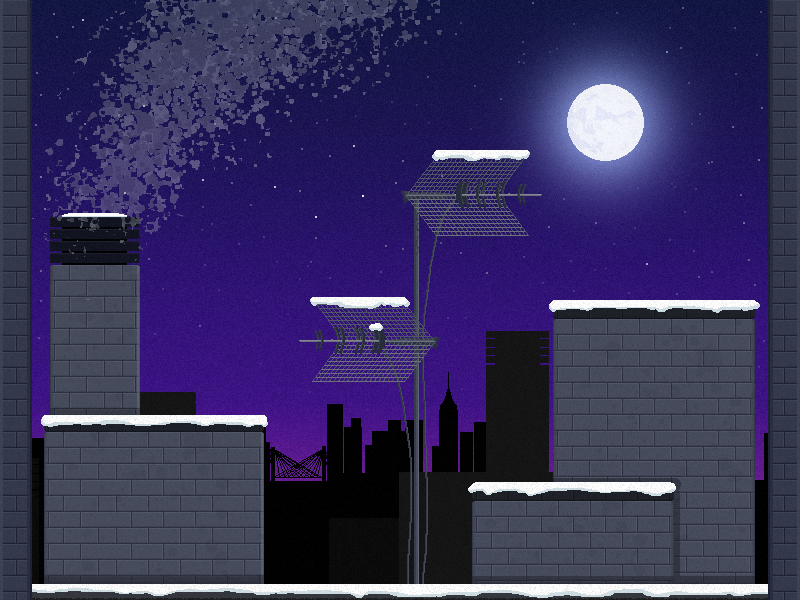
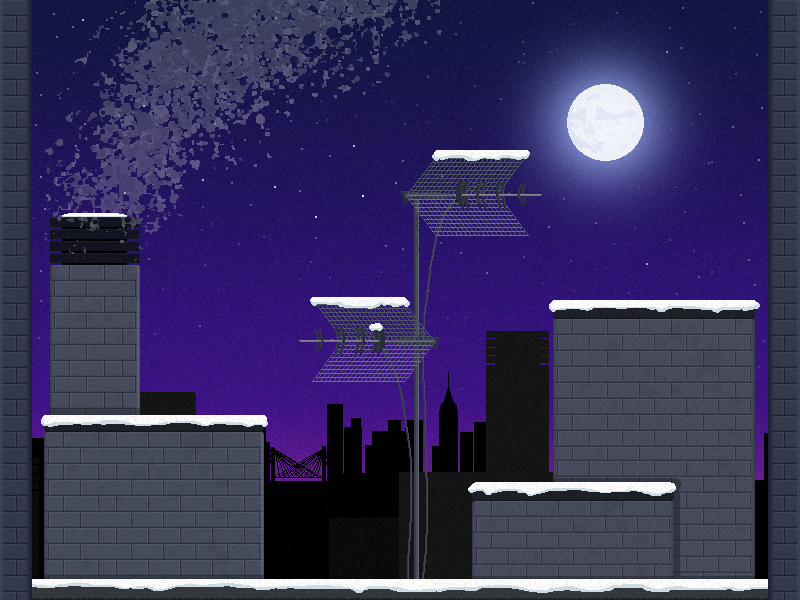
beta testing

Changed region(s): [[0.0312, 0.96, 0.9688, 1.0]]

diff --git a/F_3_GRUPO_G/4CatsAPI_REST/src/main/resources/static/Scene3.js b/F_3_GRUPO_G/4CatsAPI_REST/src/main/resources/static/Scene3.js
@@ -8,18 +8,17 @@ class Scene3 extends Phaser.Scene{
     {
         this.load.image('escenario1', '/Recursos/Interfaz/escenario1.jpg');
         this.load.image('escenario2', '/Recursos/Interfaz/escenario2.png');
-        this.load.image('escenario3', '/Recursos/Interfaz/escenario2.png');
+        this.load.image('escenario3', '/Recursos/Interfaz/escenario3.png');
         this.load.image('plataforma', '/Recursos/Plataformas/plataforma.png');
         this.load.image('pescado', '/Recursos/Objetos/pescado.png');
         this.load.image('ovillo', '/Recursos/Objetos/ovillo.png');
         this.load.image('rata', '/Recursos/Objetos/rata.png');
-        pU=this.load.image('lata', '/Recursos/Objetos/lata.png');
+        this.load.image('lata', '/Recursos/Objetos/lata.png');
         this.load.audio('juego',['/Recursos/Musica/juego.mp3', '/Recursos/Musica/juego.ogg']);
         this.load.audio('aplastado',['/Recursos/Sonidos/aplastado.mp3', '/Recursos/Sonidos/aplastado.ogg']);
         this.load.audio('objeto',['/Recursos/Sonidos/objeto.mp3', '/Recursos/Sonidos/objeto.ogg']);
         this.load.audio('powerUp',['/Recursos/Sonidos/powerUp.mp3', '/Recursos/Sonidos/powerUp.ogg']);
         this.load.audio('cuentaAtras',['/Recursos/Sonidos/cuentaAtras.mp3', '/Recursos/Sonidos/cuentaAtras.ogg']);
-        this.load.video('nieve','/Recursos/Interfaz/nieve.mp4');
         
         this.load.spritesheet('Muffin', '/Recursos/Personajes/Muffin.png',
         { frameWidth: 64, frameHeight: 54 } 
@@ -104,9 +103,9 @@ class Scene3 extends Phaser.Scene{
         //cuando le damos cambiamos a la escena de pausa, paramos la música y esta escena
         botonPausa.on('pointerdown', () => { this.scene.pause(); musica.pause(); this.scene.launch("Pausa"); sonidoCuentaAtras.pause();}); 
         botonPausa.on('pointerout', () => {
-        	if(escenarioTres)  
+        	if(escenarioTres) //en el escenario 3 la letra del pausa en estado normal es roja
         		this.add.text(40,15,"Pausa",{font:"30px Agency FB bold", fill:"#CC0033"}); 
-        	else 
+        	else //en los escenarios 1 y 2 la letra del pausa en estado normal es amarilla
         		this.add.text(40,15,"Pausa",{font:"30px Agency FB bold", fill:"#FFFF33"}); 
         });
         botonPausa.on('pointerover', () => {this.add.text(40,15,"Pausa",{font:"30px Agency FB bold", fill:"#FF0066"});}); 
@@ -120,9 +119,6 @@ class Scene3 extends Phaser.Scene{
 
         //Creación del personaje
         player = this.physics.add.sprite(734, 560, 'Muffin'); //creación de un sprite con físicas
-        
-        
-        
         this.physics.add.collider(player, plataformas);// añadimos las fisicas al choque
         //player.body.checkCollision.up=false; practica 2
         player2 = this.physics.add.sprite(100, 560, 'Mungojerry'); //creación de un sprite con físicas
@@ -217,7 +213,7 @@ class Scene3 extends Phaser.Scene{
             key: 'VOplayer', //nombre de la animación
             frames: this.anims.generateFrameNumbers('Muffin', { start: 32, end: 55 }),
             frameRate: 20,
-            repeat: 1 //volver a empezar cuando termine
+            repeat: 1 
         });
 
         //PLAYER 2 animaciones-------------------------------------------------------------------------------------
@@ -301,7 +297,7 @@ class Scene3 extends Phaser.Scene{
             key: 'VOplayer2', //nombre de la animación
             frames: this.anims.generateFrameNumbers('Mungojerry', { start: 88, end: 111 }),
             frameRate: 20,
-            repeat: 1 //volver a empezar cuando termine
+            repeat: 1 
         });
         //NIEVE
         this.anims.create({
@@ -313,9 +309,11 @@ class Scene3 extends Phaser.Scene{
         //FIN ANIMACIONES--------------------------------------------------------------------
 
         objeto= this.physics.add.staticGroup(); //objeto por el que lucharán
-        objetoPowerUp= this.physics.add.staticGroup(); //power up
-
+        objetoPowerUp1= this.physics.add.staticGroup(); //power up
+        objetoPowerUp2= this.physics.add.staticGroup();
+        
         //Generamos el objeto en el centro de la pantalla
+        //dependiendo del escenario elegido el objeto principal tiene una posición asignada 
         if(escenarioUno)
         	objeto.create(340, 175, objetoAleatorio);
         else if(escenarioDos)
@@ -334,14 +332,14 @@ class Scene3 extends Phaser.Scene{
         player2.right=this.input.keyboard.addKey(Phaser.Input.Keyboard.KeyCodes.D);
         player2.left=this.input.keyboard.addKey(Phaser.Input.Keyboard.KeyCodes.A);
         player2.up=this.input.keyboard.addKey(Phaser.Input.Keyboard.KeyCodes.W);
+        
         //llamamos a la funcion hitplayer cada vez que player2 salte sobre player uno y a la inversa
         this.physics.add.overlap(player, player2, this.hitPlayer, null, this);
         this.physics.add.overlap(player2, player, this.hitPlayer, null, this);
         
-        if(escenarioDos){
+        if(escenarioDos){//si el  escenario seleccionado ha sido el dos, se activa la animación de la nieve
         	nieve.anims.play("nieve",true);
         }
-        
         
         timer = this.time.addEvent({ delay: 45000, callback: this.gameOver, callbackScope: this });
 
@@ -371,7 +369,7 @@ class Scene3 extends Phaser.Scene{
         generarPowerUp2 = Phaser.Math.Between(20, 5);
         colisionPowerUp=false;
         colisionPowerUp2=false;
-        pU.x+=50;
+        
         escenarioUno=false;
         escenarioDos=false;
         escenarioTres=false;
@@ -428,7 +426,7 @@ class Scene3 extends Phaser.Scene{
             cuentaAtrasParadoP2 = true;
             P1P2 = true;
             cuentaAtrasParadoP1 = false;
-           P2P1 = false;
+            P2P1 = false;
         }
 
 
@@ -463,7 +461,7 @@ class Scene3 extends Phaser.Scene{
     }
     //A continuación comienza la función update que se ejecuta en bucle
     update (time, delta) {
-    	
+    		
     		PUTservidor(jugador);
             //tiempoEspera++;//la variable que controla hace cuánto ha sido transferido el objeto aumenta 
             time*=delta;//para que el tiempo no dependa de la máquina que compila este código
@@ -476,32 +474,34 @@ class Scene3 extends Phaser.Scene{
             //Cuando el tiempo que queda es igual al random en el que aparece el power up 2
             if (tiempo===generarPowerUp1) {
                 generarPowerUp1=130;
+                //dependiendo del escenario elegido el primer power up tiene una posición asignada
                 if(escenarioUno)
-                	pU=objetoPowerUp.create(640,170, "lata");
+                	objetoPowerUp1.create(640,170, "lata");
                 else if(escenarioDos)
-                	pU=objetoPowerUp.create(155,405, "lata");
+                	objetoPowerUp1.create(155,405, "lata");
                 else if(escenarioTres)
-                	pU=objetoPowerUp.create(609,225, "lata");
+                	objetoPowerUp1.create(609,225, "lata");
                 
-                this.physics.add.overlap(player, objetoPowerUp, this.colectPowerUp1, null, this);
-                this.physics.add.overlap(player2, objetoPowerUp, this.colectPowerUp2, null, this);
+                this.physics.add.overlap(player, objetoPowerUp1, this.colectPowerUp1, null, this);
+                this.physics.add.overlap(player2, objetoPowerUp1, this.colectPowerUp2, null, this);
             }
             //si tiempo es igual al momento que hemos elegido para destruir el primer power up, lo movemos fuera de la pantalla
             if(tiempo<destruir){
-                objetoPowerUp.destroy();
+                objetoPowerUp1.clear(true);
             }
             //Cuando el tiempo que queda es igual al random en el que aparece el power up 2
             if (tiempo === generarPowerUp2) {
                 generarPowerUp2 = 130;
+              //dependiendo del escenario elegido el segundo power up tiene una posición asignada
                 if(escenarioUno)
-                	objetoPowerUp.create(339, 350, "lata");
+                	objetoPowerUp2.create(339, 350, "lata");
                 else if(escenarioDos)
-                	objetoPowerUp.create(650, 295, "lata");
+                	objetoPowerUp2.create(650, 295, "lata");
                 else if(escenarioTres)
-                	objetoPowerUp.create(280, 330, "lata");
+                	objetoPowerUp2.create(280, 330, "lata");
                 
-                this.physics.add.overlap(player, objetoPowerUp, this.colectPowerUp1, null, this);
-                this.physics.add.overlap(player2, objetoPowerUp, this.colectPowerUp2, null, this);
+                this.physics.add.overlap(player, objetoPowerUp2, this.colectPowerUp1, null, this);
+                this.physics.add.overlap(player2, objetoPowerUp2, this.colectPowerUp2, null, this);
             }
 
             //para mostrar el temporizador

diff --git a/F_3_GRUPO_G/4CatsAPI_REST/target/classes/static/Scene3.js b/F_3_GRUPO_G/4CatsAPI_REST/target/classes/static/Scene3.js
@@ -8,18 +8,17 @@ class Scene3 extends Phaser.Scene{
     {
         this.load.image('escenario1', '/Recursos/Interfaz/escenario1.jpg');
         this.load.image('escenario2', '/Recursos/Interfaz/escenario2.png');
-        this.load.image('escenario3', '/Recursos/Interfaz/escenario2.png');
+        this.load.image('escenario3', '/Recursos/Interfaz/escenario3.png');
         this.load.image('plataforma', '/Recursos/Plataformas/plataforma.png');
         this.load.image('pescado', '/Recursos/Objetos/pescado.png');
         this.load.image('ovillo', '/Recursos/Objetos/ovillo.png');
         this.load.image('rata', '/Recursos/Objetos/rata.png');
-        pU=this.load.image('lata', '/Recursos/Objetos/lata.png');
+        this.load.image('lata', '/Recursos/Objetos/lata.png');
         this.load.audio('juego',['/Recursos/Musica/juego.mp3', '/Recursos/Musica/juego.ogg']);
         this.load.audio('aplastado',['/Recursos/Sonidos/aplastado.mp3', '/Recursos/Sonidos/aplastado.ogg']);
         this.load.audio('objeto',['/Recursos/Sonidos/objeto.mp3', '/Recursos/Sonidos/objeto.ogg']);
         this.load.audio('powerUp',['/Recursos/Sonidos/powerUp.mp3', '/Recursos/Sonidos/powerUp.ogg']);
         this.load.audio('cuentaAtras',['/Recursos/Sonidos/cuentaAtras.mp3', '/Recursos/Sonidos/cuentaAtras.ogg']);
-        this.load.video('nieve','/Recursos/Interfaz/nieve.mp4');
         
         this.load.spritesheet('Muffin', '/Recursos/Personajes/Muffin.png',
         { frameWidth: 64, frameHeight: 54 } 
@@ -104,9 +103,9 @@ class Scene3 extends Phaser.Scene{
         //cuando le damos cambiamos a la escena de pausa, paramos la música y esta escena
         botonPausa.on('pointerdown', () => { this.scene.pause(); musica.pause(); this.scene.launch("Pausa"); sonidoCuentaAtras.pause();}); 
         botonPausa.on('pointerout', () => {
-        	if(escenarioTres)  
+        	if(escenarioTres) //en el escenario 3 la letra del pausa en estado normal es roja
         		this.add.text(40,15,"Pausa",{font:"30px Agency FB bold", fill:"#CC0033"}); 
-        	else 
+        	else //en los escenarios 1 y 2 la letra del pausa en estado normal es amarilla
         		this.add.text(40,15,"Pausa",{font:"30px Agency FB bold", fill:"#FFFF33"}); 
         });
         botonPausa.on('pointerover', () => {this.add.text(40,15,"Pausa",{font:"30px Agency FB bold", fill:"#FF0066"});}); 
@@ -120,9 +119,6 @@ class Scene3 extends Phaser.Scene{
 
         //Creación del personaje
         player = this.physics.add.sprite(734, 560, 'Muffin'); //creación de un sprite con físicas
-        
-        
-        
         this.physics.add.collider(player, plataformas);// añadimos las fisicas al choque
         //player.body.checkCollision.up=false; practica 2
         player2 = this.physics.add.sprite(100, 560, 'Mungojerry'); //creación de un sprite con físicas
@@ -217,7 +213,7 @@ class Scene3 extends Phaser.Scene{
             key: 'VOplayer', //nombre de la animación
             frames: this.anims.generateFrameNumbers('Muffin', { start: 32, end: 55 }),
             frameRate: 20,
-            repeat: 1 //volver a empezar cuando termine
+            repeat: 1 
         });
 
         //PLAYER 2 animaciones-------------------------------------------------------------------------------------
@@ -301,7 +297,7 @@ class Scene3 extends Phaser.Scene{
             key: 'VOplayer2', //nombre de la animación
             frames: this.anims.generateFrameNumbers('Mungojerry', { start: 88, end: 111 }),
             frameRate: 20,
-            repeat: 1 //volver a empezar cuando termine
+            repeat: 1 
         });
         //NIEVE
         this.anims.create({
@@ -313,9 +309,11 @@ class Scene3 extends Phaser.Scene{
         //FIN ANIMACIONES--------------------------------------------------------------------
 
         objeto= this.physics.add.staticGroup(); //objeto por el que lucharán
-        objetoPowerUp= this.physics.add.staticGroup(); //power up
-
+        objetoPowerUp1= this.physics.add.staticGroup(); //power up
+        objetoPowerUp2= this.physics.add.staticGroup();
+        
         //Generamos el objeto en el centro de la pantalla
+        //dependiendo del escenario elegido el objeto principal tiene una posición asignada 
         if(escenarioUno)
         	objeto.create(340, 175, objetoAleatorio);
         else if(escenarioDos)
@@ -334,14 +332,14 @@ class Scene3 extends Phaser.Scene{
         player2.right=this.input.keyboard.addKey(Phaser.Input.Keyboard.KeyCodes.D);
         player2.left=this.input.keyboard.addKey(Phaser.Input.Keyboard.KeyCodes.A);
         player2.up=this.input.keyboard.addKey(Phaser.Input.Keyboard.KeyCodes.W);
+        
         //llamamos a la funcion hitplayer cada vez que player2 salte sobre player uno y a la inversa
         this.physics.add.overlap(player, player2, this.hitPlayer, null, this);
         this.physics.add.overlap(player2, player, this.hitPlayer, null, this);
         
-        if(escenarioDos){
+        if(escenarioDos){//si el  escenario seleccionado ha sido el dos, se activa la animación de la nieve
         	nieve.anims.play("nieve",true);
         }
-        
         
         timer = this.time.addEvent({ delay: 45000, callback: this.gameOver, callbackScope: this });
 
@@ -371,7 +369,7 @@ class Scene3 extends Phaser.Scene{
         generarPowerUp2 = Phaser.Math.Between(20, 5);
         colisionPowerUp=false;
         colisionPowerUp2=false;
-        pU.x+=50;
+        
         escenarioUno=false;
         escenarioDos=false;
         escenarioTres=false;
@@ -428,7 +426,7 @@ class Scene3 extends Phaser.Scene{
             cuentaAtrasParadoP2 = true;
             P1P2 = true;
             cuentaAtrasParadoP1 = false;
-           P2P1 = false;
+            P2P1 = false;
         }
 
 
@@ -463,7 +461,7 @@ class Scene3 extends Phaser.Scene{
     }
     //A continuación comienza la función update que se ejecuta en bucle
     update (time, delta) {
-    	
+    		
     		PUTservidor(jugador);
             //tiempoEspera++;//la variable que controla hace cuánto ha sido transferido el objeto aumenta 
             time*=delta;//para que el tiempo no dependa de la máquina que compila este código
@@ -476,32 +474,34 @@ class Scene3 extends Phaser.Scene{
             //Cuando el tiempo que queda es igual al random en el que aparece el power up 2
             if (tiempo===generarPowerUp1) {
                 generarPowerUp1=130;
+                //dependiendo del escenario elegido el primer power up tiene una posición asignada
                 if(escenarioUno)
-                	pU=objetoPowerUp.create(640,170, "lata");
+                	objetoPowerUp1.create(640,170, "lata");
                 else if(escenarioDos)
-                	pU=objetoPowerUp.create(155,405, "lata");
+                	objetoPowerUp1.create(155,405, "lata");
                 else if(escenarioTres)
-                	pU=objetoPowerUp.create(609,225, "lata");
+                	objetoPowerUp1.create(609,225, "lata");
                 
-                this.physics.add.overlap(player, objetoPowerUp, this.colectPowerUp1, null, this);
-                this.physics.add.overlap(player2, objetoPowerUp, this.colectPowerUp2, null, this);
+                this.physics.add.overlap(player, objetoPowerUp1, this.colectPowerUp1, null, this);
+                this.physics.add.overlap(player2, objetoPowerUp1, this.colectPowerUp2, null, this);
             }
             //si tiempo es igual al momento que hemos elegido para destruir el primer power up, lo movemos fuera de la pantalla
             if(tiempo<destruir){
-                objetoPowerUp.destroy();
+                objetoPowerUp1.clear(true);
             }
             //Cuando el tiempo que queda es igual al random en el que aparece el power up 2
             if (tiempo === generarPowerUp2) {
                 generarPowerUp2 = 130;
+              //dependiendo del escenario elegido el segundo power up tiene una posición asignada
                 if(escenarioUno)
-                	objetoPowerUp.create(339, 350, "lata");
+                	objetoPowerUp2.create(339, 350, "lata");
                 else if(escenarioDos)
-                	objetoPowerUp.create(650, 295, "lata");
+                	objetoPowerUp2.create(650, 295, "lata");
                 else if(escenarioTres)
-                	objetoPowerUp.create(280, 330, "lata");
+                	objetoPowerUp2.create(280, 330, "lata");
                 
-                this.physics.add.overlap(player, objetoPowerUp, this.colectPowerUp1, null, this);
-                this.physics.add.overlap(player2, objetoPowerUp, this.colectPowerUp2, null, this);
+                this.physics.add.overlap(player, objetoPowerUp2, this.colectPowerUp1, null, this);
+                this.physics.add.overlap(player2, objetoPowerUp2, this.colectPowerUp2, null, this);
             }
 
             //para mostrar el temporizador

diff --git a/F_3_GRUPO_G/4CatsAPI_REST/src/main/resources/static/index.html b/F_3_GRUPO_G/4CatsAPI_REST/src/main/resources/static/index.html
@@ -122,7 +122,6 @@
 			var sonidoAplastado;
 			var sonidoPowerUp;
 			
-			var pU; // objeto donde guardamos el power up
 			var destruir=21;//momento en el que se destruye el power up 1 si no lo han cogido
 			var tiempoEspera=0;// para que el jugador no pueda hacer chicle
 			var anim;//para las animaciones
@@ -135,7 +134,8 @@
 			var info;// texto del tiempo
 			var objetoAleatorio;// variable donde se guardará el objeto aleatorio
 			var objeto;//para crear el objeto aleatorio
-			var objetoPowerUp;//para crear el power up
+			var objetoPowerUp2;
+			var objetoPowerUp1;//para crear el power up
 			var total = 0;
 			var aleatorio;//guarda un numero aleatorio entre 1 y 3 para elegir el objeto que aparecerá
 			var generarPowerUp1 = Phaser.Math.Between(40, 30);// tiempo en que el primer power up que aparece en la partida

diff --git a/F_3_GRUPO_G/4CatsAPI_REST/target/classes/static/index.html b/F_3_GRUPO_G/4CatsAPI_REST/target/classes/static/index.html
@@ -122,7 +122,6 @@
 			var sonidoAplastado;
 			var sonidoPowerUp;
 			
-			var pU; // objeto donde guardamos el power up
 			var destruir=21;//momento en el que se destruye el power up 1 si no lo han cogido
 			var tiempoEspera=0;// para que el jugador no pueda hacer chicle
 			var anim;//para las animaciones
@@ -135,7 +134,8 @@
 			var info;// texto del tiempo
 			var objetoAleatorio;// variable donde se guardará el objeto aleatorio
 			var objeto;//para crear el objeto aleatorio
-			var objetoPowerUp;//para crear el power up
+			var objetoPowerUp2;
+			var objetoPowerUp1;//para crear el power up
 			var total = 0;
 			var aleatorio;//guarda un numero aleatorio entre 1 y 3 para elegir el objeto que aparecerá
 			var generarPowerUp1 = Phaser.Math.Between(40, 30);// tiempo en que el primer power up que aparece en la partida

diff --git a/F_3_GRUPO_G/4CatsAPI_REST/src/main/resources/static/Scene7.js b/F_3_GRUPO_G/4CatsAPI_REST/src/main/resources/static/Scene7.js
@@ -50,7 +50,6 @@ class Scene7 extends Phaser.Scene{
         generarPowerUp2 = Phaser.Math.Between(20, 5);
         colisionPowerUp=false;
         colisionPowerUp2=false;
-        pU.x+=50;
     }
     update(){
     	tiempoInactividad(this);

diff --git a/F_3_GRUPO_G/4CatsAPI_REST/target/classes/static/Scene7.js b/F_3_GRUPO_G/4CatsAPI_REST/target/classes/static/Scene7.js
@@ -50,7 +50,6 @@ class Scene7 extends Phaser.Scene{
         generarPowerUp2 = Phaser.Math.Between(20, 5);
         colisionPowerUp=false;
         colisionPowerUp2=false;
-        pU.x+=50;
     }
     update(){
     	tiempoInactividad(this);
